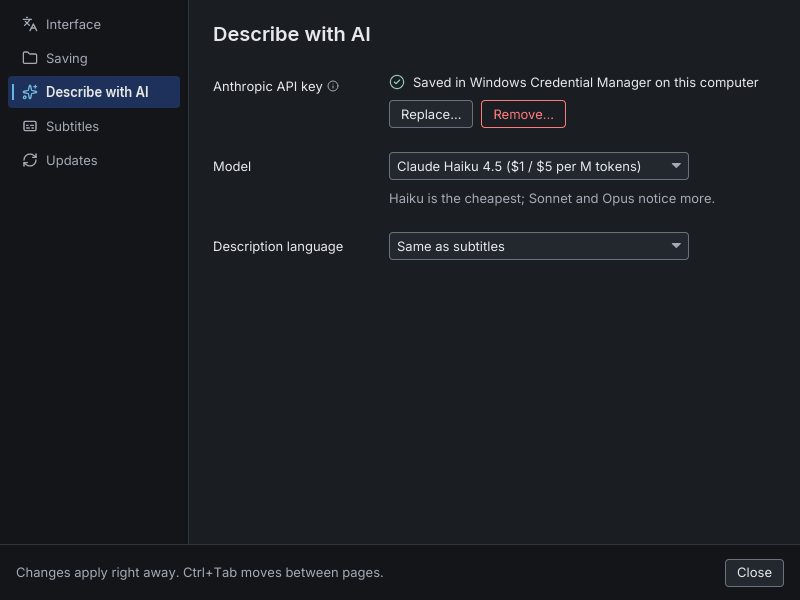
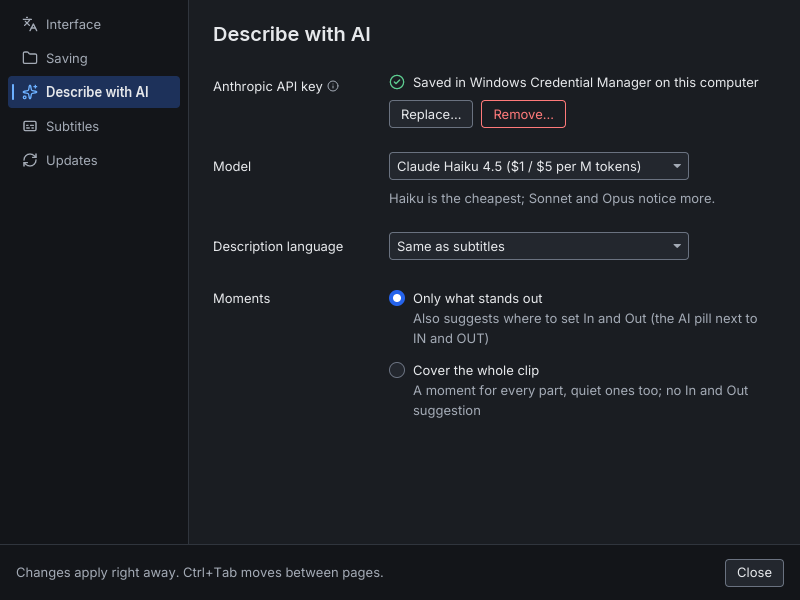
Moments review round 1: glossary-correct ru, both options described, design doc rows, moments passed into the request (#176)

diff --git a/src/features/batch/actions/describe_ai/mod.rs b/src/features/batch/actions/describe_ai/mod.rs
@@ -498,7 +498,8 @@ pub fn run(options: Run, path: &Path, cancel: &AtomicBool, progress: &ItemProgre
         return ItemResult::new(ItemStatus::Skipped, None);
     }
     // Removed in the settings while the job runs: every later video would fail the same way.
-    let Some(request) = Request::for_clip(path, options.model(), options.language) else {
+    let Some(request) = Request::for_clip(path, options.model(), options.language, options.moments)
+    else {
         return ItemResult {
             stop_job: Some(fl!("batch-ai-stop-no-key")),
             ..ItemResult::failed(fl!("batch-ai-fail-no-key"))
@@ -507,9 +508,8 @@ pub fn run(options: Run, path: &Path, cancel: &AtomicBool, progress: &ItemProgre
     let Request {
         on_disk,
         subtitles,
-        options: mut describe_options,
+        options: describe_options,
     } = request;
-    describe_options.moments = options.moments;
     // The file's share of reading frames, as the estimate counts it; waiting for the answer
     // takes the rest.
     let mut asked_at = 0.0;
@@ -631,9 +631,14 @@ pub struct Request {
 }
 
 impl Request {
-    /// The request for the clip at `path` with `model` and `language`; `None` when no
-    /// Anthropic key is saved. Reads the key and the subtitles: blocking.
-    pub fn for_clip(path: &Path, model: Model, language: SummaryLanguage) -> Option<Self> {
+    /// The request for the clip at `path` with `model`, `language` and `moments`; `None` when
+    /// no Anthropic key is saved. Reads the key and the subtitles: blocking.
+    pub fn for_clip(
+        path: &Path,
+        model: Model,
+        language: SummaryLanguage,
+        moments: MomentsMode,
+    ) -> Option<Self> {
         let api_key = key::read_key(key::ApiKey::Anthropic)?;
         let on_disk = FileTagger::disk_path(path);
         let subtitles = describe::srt::load_for(&on_disk).unwrap_or_else(|e| {
@@ -648,7 +653,7 @@ impl Request {
                 model,
                 language,
                 frame_sampling: FrameSampling::KeyFrames,
-                moments: MomentsMode::Important,
+                moments,
             },
         })
     }
@@ -831,5 +836,17 @@ mod tests {
             &ItemProgress::default(),
         );
         assert_eq!(result.status, ItemStatus::Skipped);
+    }
+
+    #[test]
+    fn the_moments_set_in_the_settings_go_into_the_run() {
+        let mut options = Options::default();
+        let moments = |options: &Options| match options.operation() {
+            super::super::Operation::DescribeAi(run) => run.moments,
+            other => panic!("not a Describe with AI run: {other:?}"),
+        };
+        assert_eq!(moments(&options), MomentsMode::Important, "the default");
+        options.update(Message::SetMoments(MomentsMode::Full));
+        assert_eq!(moments(&options), MomentsMode::Full);
     }
 }

diff --git a/crates/frename-core/src/db/migrations.rs b/crates/frename-core/src/db/migrations.rs
@@ -219,6 +219,27 @@ mod tests {
         assert_eq!(language, "");
     }
 
+    #[test]
+    fn a_version_19_database_gets_only_what_stands_out() {
+        let conn = database_at_version_1();
+        for m in MIGRATIONS.iter().filter(|m| (2..=19).contains(&m.version)) {
+            conn.execute_batch(m.sql).expect("migration");
+        }
+        conn.execute("UPDATE schema_version SET version = 19", [])
+            .expect("set version");
+        conn.execute("INSERT INTO app_settings (id) VALUES (1)", [])
+            .expect("settings row");
+        run(&conn).expect("migrate");
+        let moments: String = conn
+            .query_row(
+                "SELECT ai_moments FROM app_settings WHERE id = 1",
+                [],
+                |row| row.get(0),
+            )
+            .expect("ai_moments column");
+        assert_eq!(moments, "important");
+    }
+
     /// A database at `version` with a settings row whose in/out storage is `in_out`.
     fn database_with_in_out_storage(version: u32, in_out: &str) -> Connection {
         let conn = database_at_version_1();

diff --git a/crates/frename-core/src/ai/mod.rs b/crates/frename-core/src/ai/mod.rs
@@ -9,7 +9,7 @@ pub use block::has_editor_comment;
 pub use clipscribe::{MomentsMode, SummaryLanguage};
 
 /// `moments`' name as the settings store it: `important` or `full`.
-pub fn moments_name(moments: MomentsMode) -> &'static str {
+pub fn moments_as_str(moments: MomentsMode) -> &'static str {
     match moments {
         MomentsMode::Important => "important",
         MomentsMode::Full => "full",
@@ -31,7 +31,7 @@ mod tests {
     #[test]
     fn a_moments_mode_is_read_back_by_its_name() {
         for moments in [MomentsMode::Important, MomentsMode::Full] {
-            assert_eq!(moments_from_name(moments_name(moments)), moments);
+            assert_eq!(moments_from_name(moments_as_str(moments)), moments);
         }
         assert_eq!(moments_from_name("something else"), MomentsMode::Important);
     }

diff --git a/src/features/markers/describe.rs b/src/features/markers/describe.rs
@@ -41,7 +41,10 @@ pub fn describe_moment(
     language: SummaryLanguage,
     cancel: &AtomicBool,
 ) -> MomentOutcome {
-    let Some(request) = describe_ai::Request::for_clip(path, model, language) else {
+    // One moment: clipscribe's `describe_moment` does not use the moments mode.
+    let Some(request) =
+        describe_ai::Request::for_clip(path, model, language, describe::MomentsMode::default())
+    else {
         return MomentOutcome::NoKey;
     };
     match describe::describe_moment(

diff --git a/src/features/settings/view.rs b/src/features/settings/view.rs
@@ -285,7 +285,7 @@ fn ai(state: &SettingsState) -> Element<'_, Message> {
                     ),
                     form::radio_option(
                         fl!("settings-ai-moments-full"),
-                        None,
+                        Some(form::description(fl!("settings-ai-moments-full-hint"))),
                         MomentsMode::Full,
                         Some(settings.ai_moments),
                         Message::SetAiMoments,

diff --git a/crates/frename-core/src/db/schema.rs b/crates/frename-core/src/db/schema.rs
@@ -187,7 +187,7 @@ CREATE TABLE IF NOT EXISTS playback_position (
 );
 ";
 
-/// Migration 20: which moments AI descriptions get (`ai::moments_name`): only what stands out,
+/// Migration 20: which moments AI descriptions get (`ai::moments_as_str`): only what stands out,
 /// or the whole clip (#176).
 pub const M20_AI_MOMENTS: &str = "
 ALTER TABLE app_settings ADD COLUMN ai_moments TEXT NOT NULL DEFAULT 'important';

diff --git a/crates/frename-core/src/db/app_database.rs b/crates/frename-core/src/db/app_database.rs
@@ -357,7 +357,7 @@ impl AppStateStore for AppDatabase {
                     settings.subtitle_cue_length.as_str(),
                     settings.marker_storage.as_str(),
                     settings.ui_language,
-                    ai::moments_name(settings.ai_moments),
+                    ai::moments_as_str(settings.ai_moments),
                 ],
             );
         }

diff --git a/docs/design/design-system.md b/docs/design/design-system.md
@@ -1953,7 +1953,7 @@ only replaces the OS title bar with A's bar.
 |---|---|
 | **Interface** (`languages`) | Language · Tag colors (*Monochrome*) · Video (*Play videos automatically when opened*) |
 | **Saving** (`folder`) | File names (*Space after each tag*) · Comments · Markers and ranges · In/out points |
-| **Describe with AI** (`sparkles`; Russian list label «Описание от AI», heading «Описать с помощью AI») | Anthropic API key · Model · Description language |
+| **Describe with AI** (`sparkles`; Russian list label «Описание от AI», heading «Описать с помощью AI») | Anthropic API key · Model · Description language · Moments |
 | **Subtitles** (`captions`) | Soniox API key · Cue length · Languages (cue length first: the language list is long and hid it) |
 | **Updates** (`refresh-cw`) | Version (version, status, *Check for updates*, *Update and restart*, *Check for updates when frename starts*) · Settings from an older frename (installed only) |
 
@@ -2006,8 +2006,12 @@ No "General" (BIR). The version is on *Updates* ("About" would hold only it).
   - *Keyring unavailable:* warning notice with today's text and hint.
   - A failed save or removal: error line under the row.
 - **Model** (AI): dropdown 300 wide with the prices; help "Haiku is the cheapest; Sonnet and Opus
-  notice more." **Description language:** dropdown 300. The page's ⓘ (on the key row): "Used by
-  Describe with AI in batch mode."
+  notice more." **Description language:** dropdown 300. **Moments:** radios *Only what stands
+  out* — "Also suggests where to set In and Out (the AI pill next to IN and OUT)"; *Cover the
+  whole clip* — "A moment for every part, quiet ones too; no In and Out suggestion". Default: only
+  what stands out (clipscribe's `MomentsMode::Important`, the only mode with a suggested In/Out,
+  §13.5.6); the choice is used by the next run, a running job keeps its own. The page's ⓘ (on the
+  key row): "Used by Describe with AI in batch mode and on markers (✨, Ctrl+F2)."
 - **Languages** (Subtitles): checkboxes of a fixed width that wrap into as many columns as fit (three
   at the default size, two at the minimum); a status line under them while loading, locked or
   failed; help "The languages spoken in the footage, as hints." **Cue length:** radios *Short* —

diff --git a/README.md b/README.md
@@ -341,8 +341,8 @@ pages:
 - **Describe with AI:** your Anthropic API key, kept in the system's password store (Windows
   Credential Manager, macOS Keychain, or a keyring such as GNOME Keyring on Linux), the model
   (Claude Haiku 4.5, Sonnet 5 or Opus 5, with their prices), the language of the descriptions, and
-  whether the moments mark only what stands out (the default, the only one that suggests an In
-  and Out) or cover the whole clip.
+  **Moments**: segments only for what stands out (the default, and the only choice that suggests
+  an In and Out) or segments covering the whole clip.
 - **Subtitles:** your Soniox API key (kept the same way), the languages spoken in your footage, and
   whether a subtitle is a short line or a whole sentence.
 - **Updates:** **Check for updates**, then **Update and restart** when a newer version is out.

diff --git a/version.md b/version.md
@@ -1,6 +1,6 @@
 # 0.110
 ## Added
-- Settings → Describe with AI → Moments: keep only what stands out (as before) or cover the whole clip with moments. Only the first suggests an In and Out.
+- Settings → Describe with AI → Moments: segments only for what stands out (as before) or covering the whole clip. Only "Only what stands out" suggests an In and Out (the **AI** pill).
 
 # 0.109
 ## Fixed
